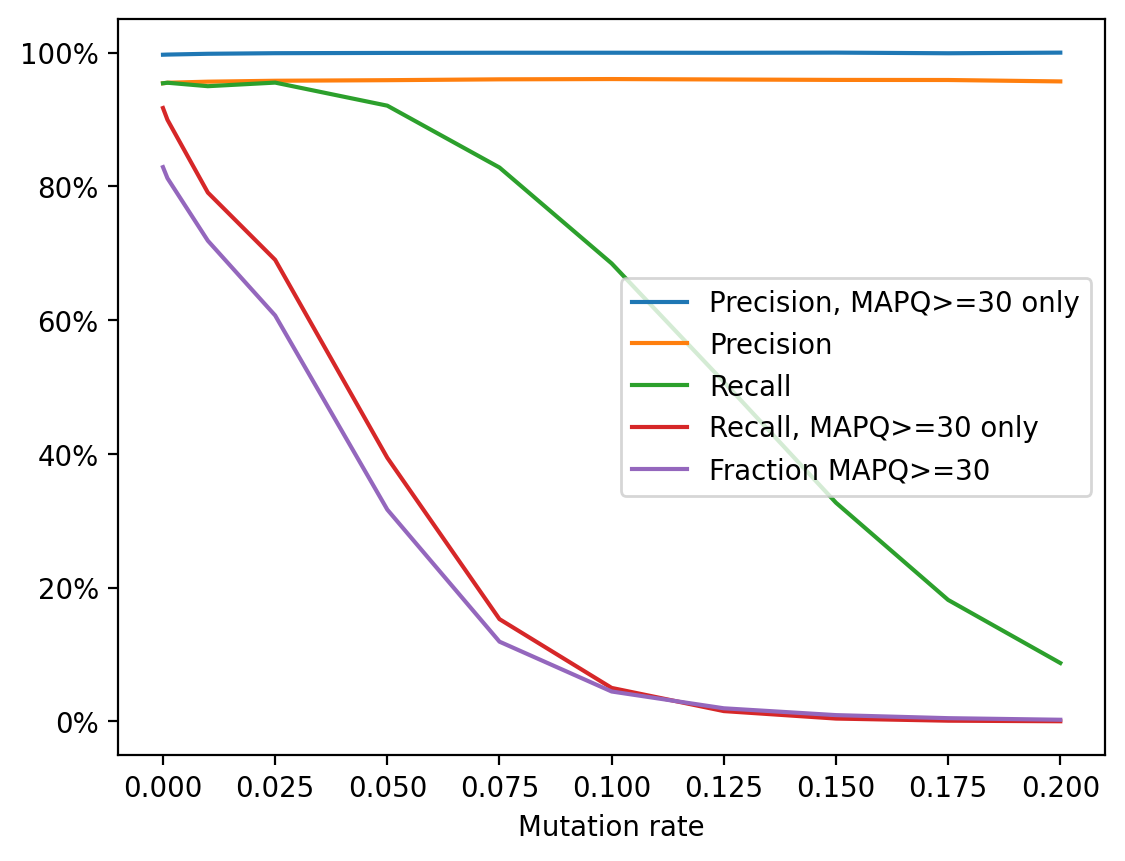
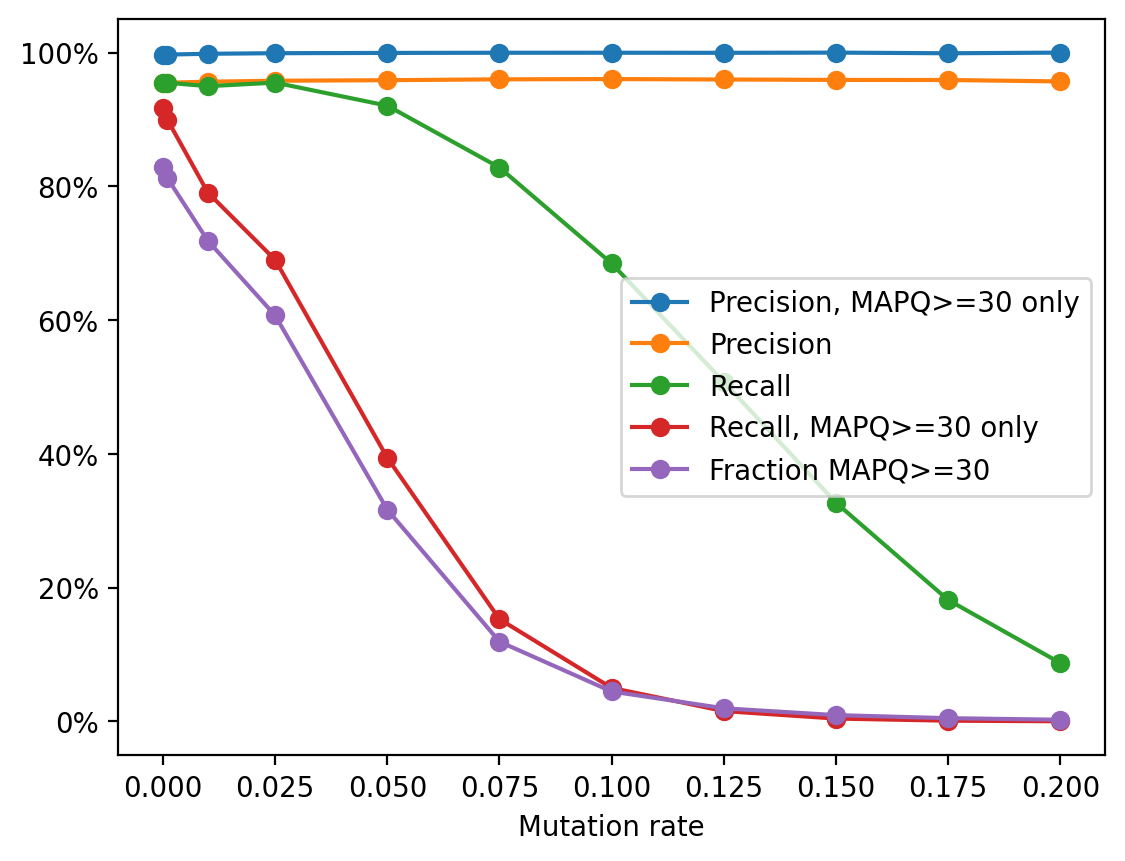
More edits

diff --git a/scripts/plot_over_mutation_rate.py b/scripts/plot_over_mutation_rate.py
@@ -18,11 +18,11 @@ def main(argv=sys.argv[1:]):
 
 #    df['mutation_rate'] = ["{:.3f}".format(x) for x in df['mutation_rate']]
     
-    ax = df.plot(x="mutation_rate", y="precision" + options.same_what + "WhenMapqAtLeast30Queries", label = "Precision, MAPQ>=30 only")
-    ax = df.plot(x="mutation_rate", y="precision" + options.same_what + "Queries", ax = ax, label = "Precision")
-    ax = df.plot(x="mutation_rate", y="recall" + options.same_what + "Queries", ax = ax, label = "Recall")
-    ax = df.plot(x="mutation_rate", y="recall" + options.same_what + "WhenMapqAtLeast30Queries", ax = ax, label = "Recall, MAPQ>=30 only")
-    ax = df.plot(x="mutation_rate", y="mapqsFractionAtLeast30", ax = ax, label = "Fraction MAPQ>=30")
+    ax = df.plot(x="mutation_rate", y="precision" + options.same_what + "WhenMapqAtLeast30Queries", label = "Precision, MAPQ>=30 only", linestyle='-', marker='o')
+    ax = df.plot(x="mutation_rate", y="precision" + options.same_what + "Queries", ax = ax, label = "Precision", linestyle='-', marker='o')
+    ax = df.plot(x="mutation_rate", y="recall" + options.same_what + "Queries", ax = ax, label = "Recall", linestyle='-', marker='o')
+    ax = df.plot(x="mutation_rate", y="recall" + options.same_what + "WhenMapqAtLeast30Queries", ax = ax, label = "Recall, MAPQ>=30 only", linestyle='-', marker='o')
+    ax = df.plot(x="mutation_rate", y="mapqsFractionAtLeast30", ax = ax, label = "Fraction MAPQ>=30", linestyle='-', marker='o')
     import matplotlib.ticker as mtick
     ax.yaxis.set_major_formatter(mtick.PercentFormatter(1.0))
 #    df.plot(x="mutation_rate", y="mapqsFractionAtLeast30", xlim=(0,0.2))

diff --git a/scripts/plot_precision_by_species.py b/scripts/plot_precision_by_species.py
@@ -126,9 +126,10 @@ def get_kingdom(ncbi, taxid):
     d = ncbi.get_rank(lineage)
     ks = [k for k in d if d[k] == 'kingdom']
     if len(ks) == 1:
-      return names[ks[0]]
+      result = names[ks[0]]
+      return "Plants" if result == "Viridiplantae" else result
     if 2759 in d:
-        return "Other"
+        return "Protists"
     raise ValueError(d)
 
 

diff --git a/paper.md b/paper.md
@@ -1,8 +1,8 @@
-# Mapping to a reference of marker genes can detect novel eukaryotes
+# Mapping metagenomic reads to a reference of markers can detect novel eukaryotes
 
 by Wojtek, Ann, Kathryn, Dan, possibly others
 
-# Introduction
+## Introduction
 Eukaryotes such as fungi and protists are frequently present in microbial communities. They are more difficult to detect in whole-genome sequencing reads than bacteria and archaea, so their presence is often not reliably reported by common tools.
 
 One challenging aspect of identifying reads in an environmental sample is potential dissimilarity of a sequenced material to any previously known reference. If signal from mapped reads does not take incompleteness of the reference and potential for false positives into account, reported results can be absurd [@r2020use].
@@ -14,9 +14,8 @@ We use alignments of simulated reads to show that EukDetect is able to report ap
 
 \newpage
 
-# Methodology and results
-
 ## Methodology
+
 Methods of differentiating species through their sequences can be tested in silico through simulation [@hovhannisyan2020crossmapper]. We use `wgsim` [@li2011wgsim] to simulate reads from EukDetect's reference of BUSCOs from OrthoDB [@kriventseva2019orthodb], and use `bowtie2` [@langmead2012fast] to align them back to the reference.
 
 When using `wgsim` we set read length to 100, base error rate to 0, and other parameters set to their default values unless otherwise specified.
@@ -31,7 +30,8 @@ We follow with an analysis of simulated reads. We simulate a large number of rea
 We do this in three contexts: reads sampled from the whole reference and then mapped back to it (an optimal case we might expect in real data), equivalently sampled reads which are then modified ( a more realistic case where a sampled organism is of a different strain to the reference), and reads from a hold-out set mapped to the remaining set (a case of unknown species). In the first two cases, we consider the read to map correctly if it maps to the same taxon, and in the case of mapping species from a hold-out set, if it maps to another taxon of the same genus.
 
 
-## Results from EukDetect given unknown species
+## Results
+### EukDetect given unknown species
 
 
 Running EukDetect on each of the samples produces an empty list of results for 219 samples, and some results for 119 samples. Of these, 76 are one taxon of the same genus as the source species in the hold-out set. 17 are one taxon of a different genus, and 26 are more than one taxon. 
@@ -43,7 +43,7 @@ Re-running EukDetect modified to filter on MAPQ >= 5 reports some results for 16
 
 \newpage
 
-## Properties of mapping simulated reads
+### Mapping simulated reads
 
 Tools for read mapping like `bowtie` or `samtools` have been developed in the context of reference genomes like the human genome [ @langmead2009ultrafast ], [@li2009sequence]. The SAM specification originating with `samtools`, which `bowtie` and `bowtie2` follow, defines the MAPQ field as a measure of certainty about position of the alignment. Eukdetect aligns metagenomic reads with `bowtie2` to a reference which is not like a single reference genome - it contains groups of similar sequences from many genomes - and one of the filters it applies to the alignments is to require MAPQ >= 30.
 
@@ -65,30 +65,36 @@ The effect of applying the MAPQ >= 30 filter continues to vary for different tax
 
 \newpage
 
-The picture of increasingly unfavourable trade-offs offered by the MAPQ >= 30 filter in the face of increasing ambiguity is made complete through an analysis of reads that are mutated before alignment (Figure B). We gradually increase the `wgsim` mutation rate parameter until recall drops below 10%. Precision stays between 95% and 96% throughout the range of mutation rates, which is concordant with `bowtie2` preserving precision over recall as seen in e.g. [@peng2015re]. Keeping only reads with MAPQ >= 30 improves precision to between 99.6% and 99%, similarly to the case of unmutated reads. However, fraction of reads with MAPQ >=30 declines more rapidly than recall does, and so the cost of improving precision is this way gets disproportionately large.
+To understand an effect of smaller differences between reference and signal, we analyse reads that are mutated before alignment (Figure B). We gradually increase the `wgsim` mutation rate parameter until recall drops below 10%. Precision stays between 95% and 96% throughout the range of mutation rates, which is concordant with `bowtie2` preserving precision over recall as seen in e.g. [@peng2015re]. Keeping only reads with MAPQ >= 30 improves precision to between 99.6% and 99%, similarly to the case of unmutated reads. However, fraction of reads with MAPQ >=30 declines more rapidly than recall does, and so the cost of improving precision is this way gets disproportionately large.
 
 ![(B) Alignments of mutated reads, known species](figures/valuesOverMutationRate.png)
 
 
 \newpage
 
-# Discussion
+## Discussion
 
 As shown above, precision with which metagenomic reads can be mapped varies based on their source taxon, and the effects of the MAPQ >= 30 filter vary based on the source of the reads. We can better explain this variability if we re-cast the task of identifying a source of reads given metagenomic reads an a reference as a nearest neighbour search in a space of sequences. A reference consisting of cDNA sequences from multiple species is different from a reference genome like the human genome, because naturally occuring proteins form isolated clusters of varying size and in-cluster similarity [@smith1970natural]. Since MAPQ is a measure of certainty about alignment position [@li2009sequence], we can expect it to be low for reads whose nearest neighbour is either ambiguous or distant. 
 
 Reads map incorrectly as well as with low MAPQ in particularly congested areas of sequence space because similarity of reference sequences makes mapping reads more difficult [@clausen2018rapid]. Our data suggests this might be the right model for a large fraction of errors, because most misses are near misses.
 
-Meanwhile, when the source of reads is quite distant from its nearest reference which is nevertheless the best match for each read, we expect reads to either not map or to correctly map with low MAPQ. This is in line with our data showing downsides of applying the MAPQ >= 30 filter to unknown species or non-reference strains.
+Meanwhile, when the source of reads is quite distant from its nearest reference which is nevertheless the best match for each read, the nearest neighbour interpretation of read mapping leads us to expect reads to either not map or to correctly map with low MAPQ. This is in line with our data showing downsides of applying the MAPQ >= 30 filter to unknown species or non-reference strains.
 
-# Conclusions
+## Conclusion
 
-We have shown that the MAPQ >= 30 filter used by EukDetect decreases the tool's sensitivity at detecting unknown species. The trade-offs offered by the filter are very attractive when it is applied to reads from source taxa that are highly similar to exactly one taxon in the reference, but it does not universally improve results. Changing MAPQ >= 30 to a more permissive value like MAPQ >= 5 offers slightly different trade-offs, but an increased number of off-target hits is a drawback.
+We have shown that the MAPQ >= 30 filter used by EukDetect decreases the tool's sensitivity at detecting unknown species. The trade-offs offered by the filter are very attractive when it is applied to reads from source taxa that are highly similar to exactly one taxon in the reference, but it does not universally improve results. Changing MAPQ >= 30 to a more permissive value like MAPQ >= 5 offers slightly different trade-offs - higher precision and recall for unknown species, but also an increased number of off-target hits.
 
-While the value of MAPQ is linked to correctness of results in general, it is not reliable measurement of uncertainty per read when mapping metagenomic reads to a reference of markers. Instead of using the MAPQ value to filter alignments before binning them, tools like EukDetect could instead filter on average MAPQ per detected taxon in conjunction with other measures of uncertainty of results.
+We conclude that while the value of MAPQ is linked to correctness of results in general, it is not a reliable measurement of uncertainty per read when mapping metagenomic reads to a reference of markers. Instead of using the MAPQ value to filter alignments before binning them, tools like EukDetect could filter on average MAPQ per detected taxon, or the value in conjunction with other measures of uncertainty of results.
 
 \newpage
 
 
+\newpage
+
+# Not in the paper
+I've written these sections when the paper was going to be bigger. Perhaps there's a whole paper in there ! :)
+
+\newpage
 
 
 
@@ -385,7 +391,7 @@ The above does not show that, but we are able to show that the presence of addit
 
 
 \newpage
-# Not in the paper
+# Not in the paper - old
 I've written these sections but they're not really useful. They might be good for talking about the stuff internally.
 
 \newpage
